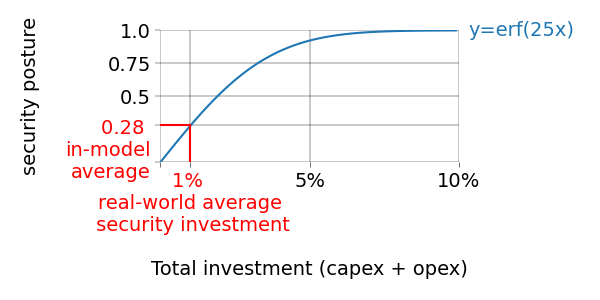
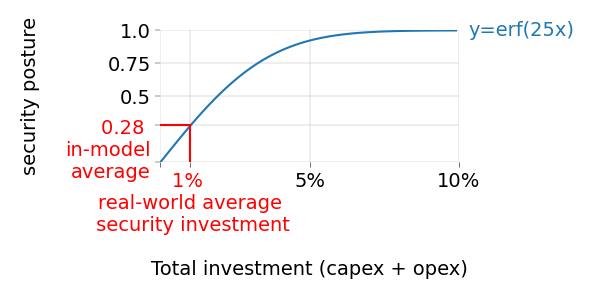
fig sze adjustments

Changed region(s): [[0.27, 0.09, 0.78, 0.54], [0.27, 0.51, 0.3, 0.54]]

diff --git a/parameter-calcs/scripts/ransom_regression_plot.py b/parameter-calcs/scripts/ransom_regression_plot.py
@@ -46,7 +46,7 @@ with plt.style.context(matplotx.styles.dufte):
 
     fig, ax = plt.subplots()
 
-    fig.set_size_inches(6,5)
+    fig.set_size_inches(6,4.5)
     
 
     ax.scatter(revenues[1:], ransom_payments, label="median ransom payment", color='red', marker="o")
